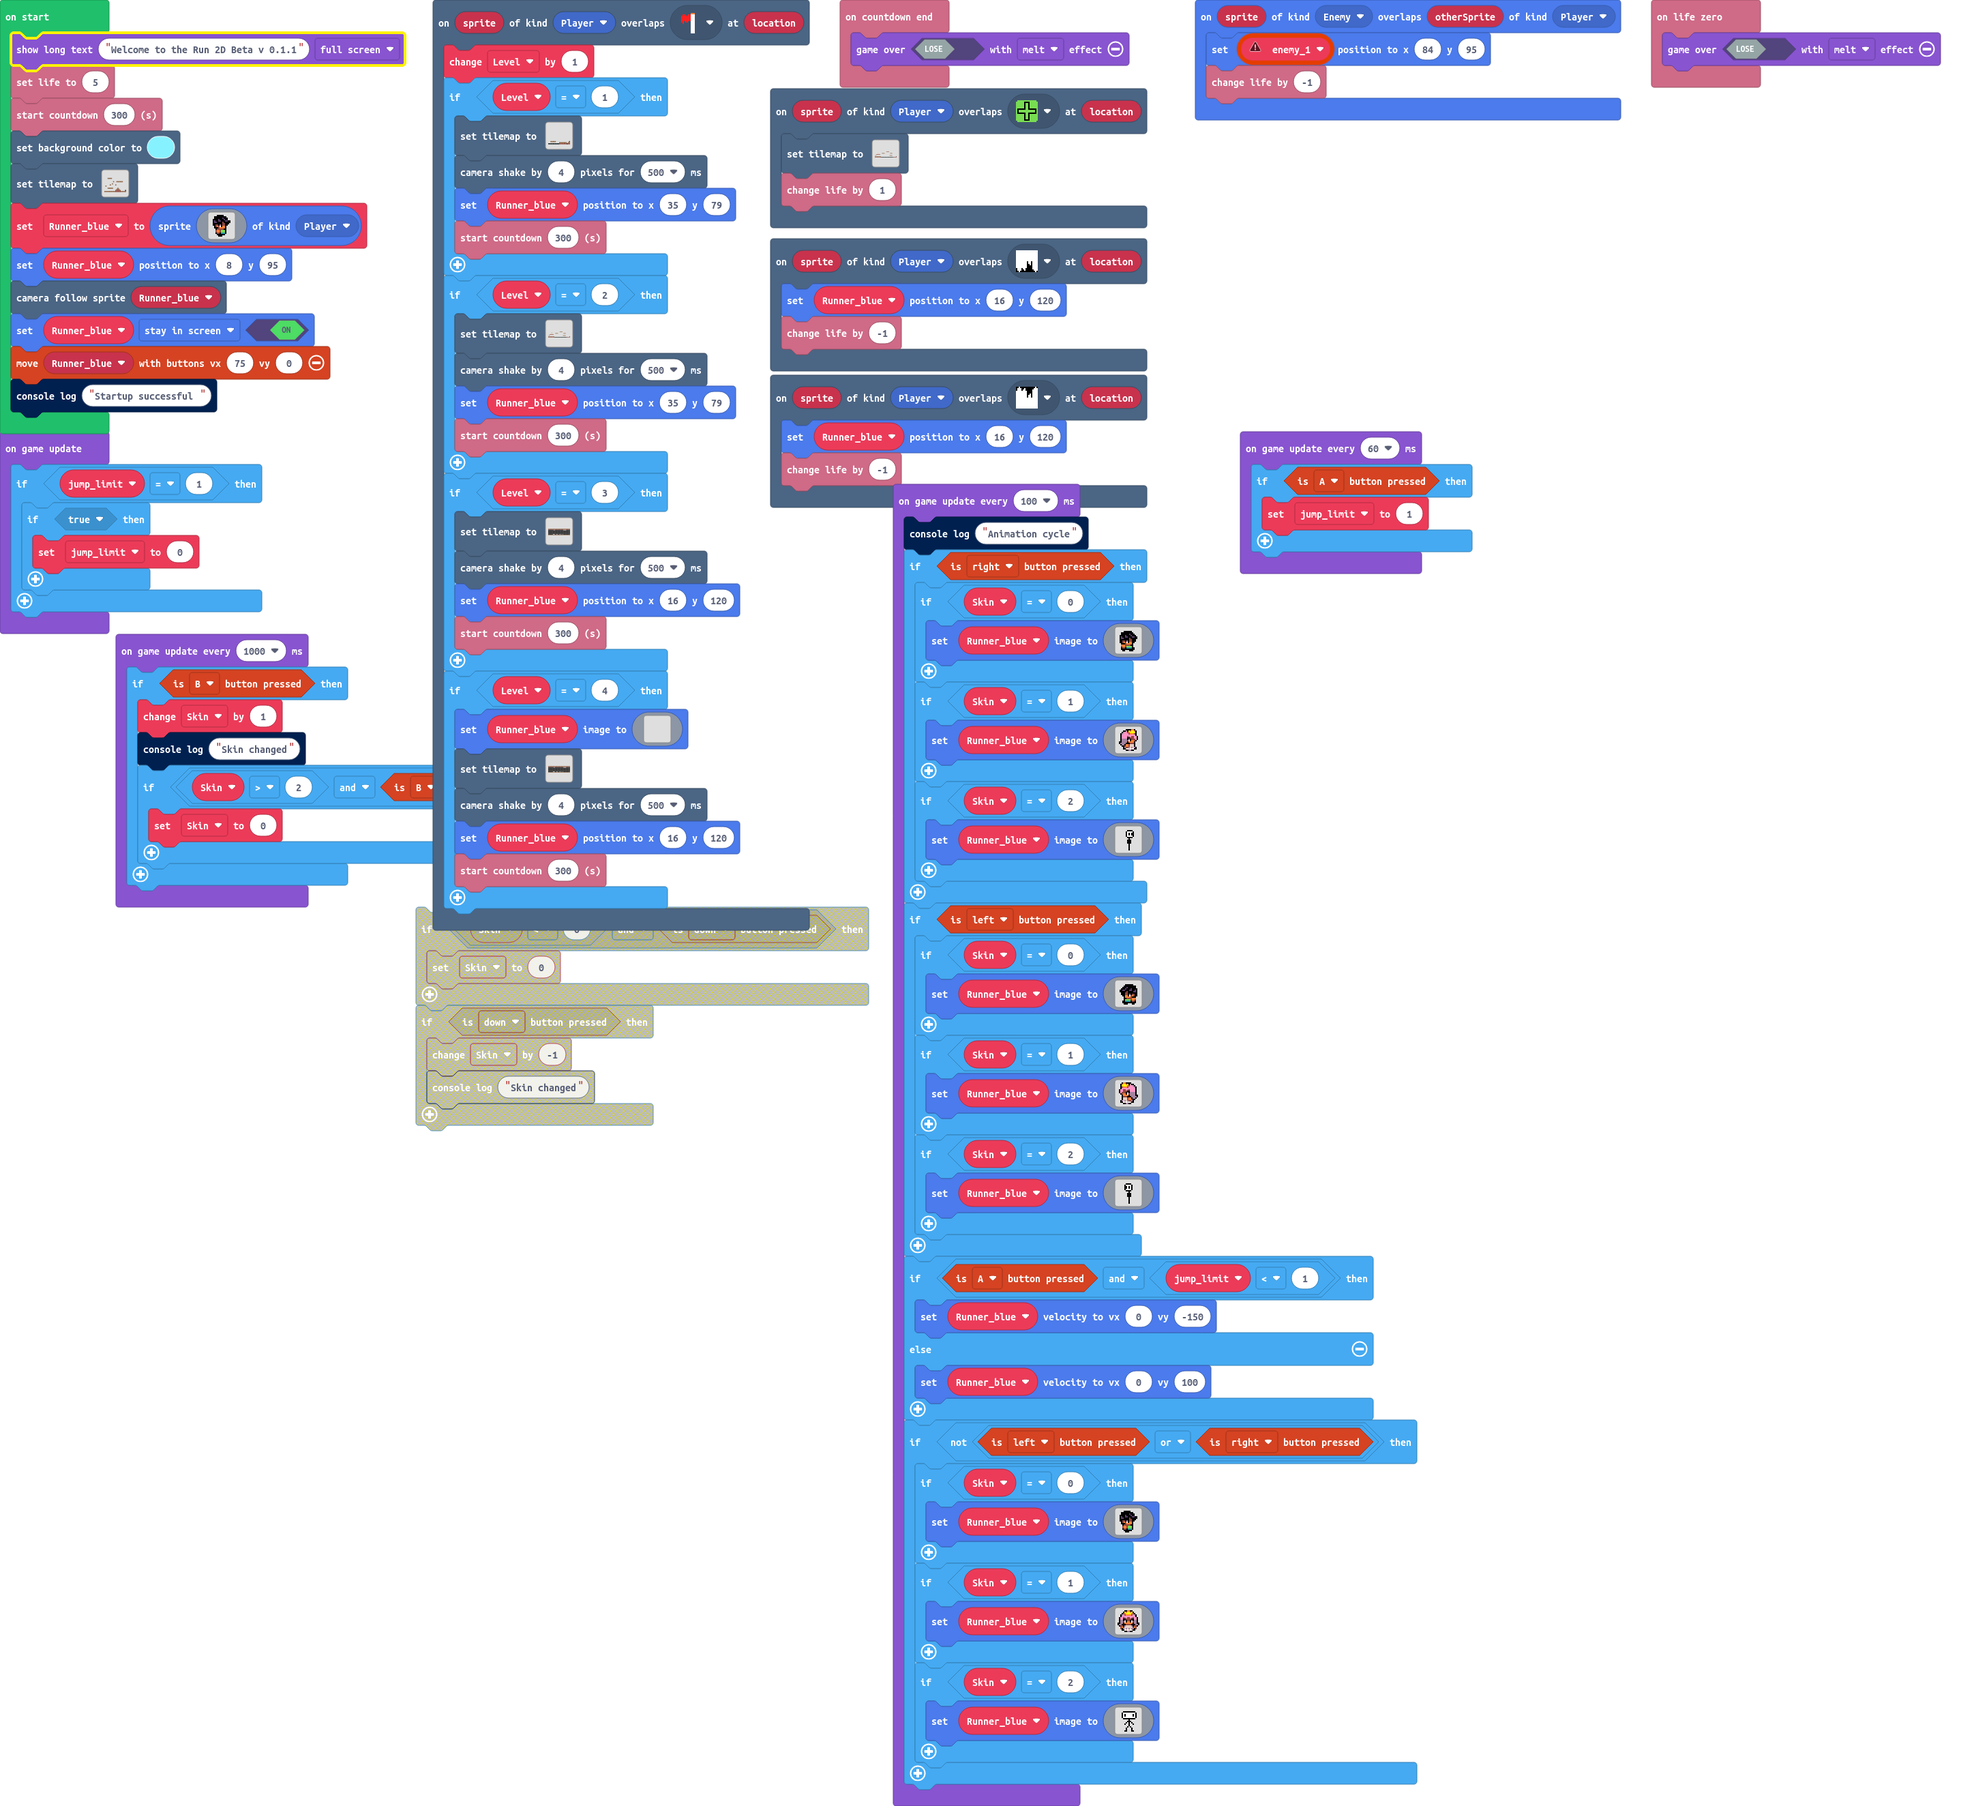
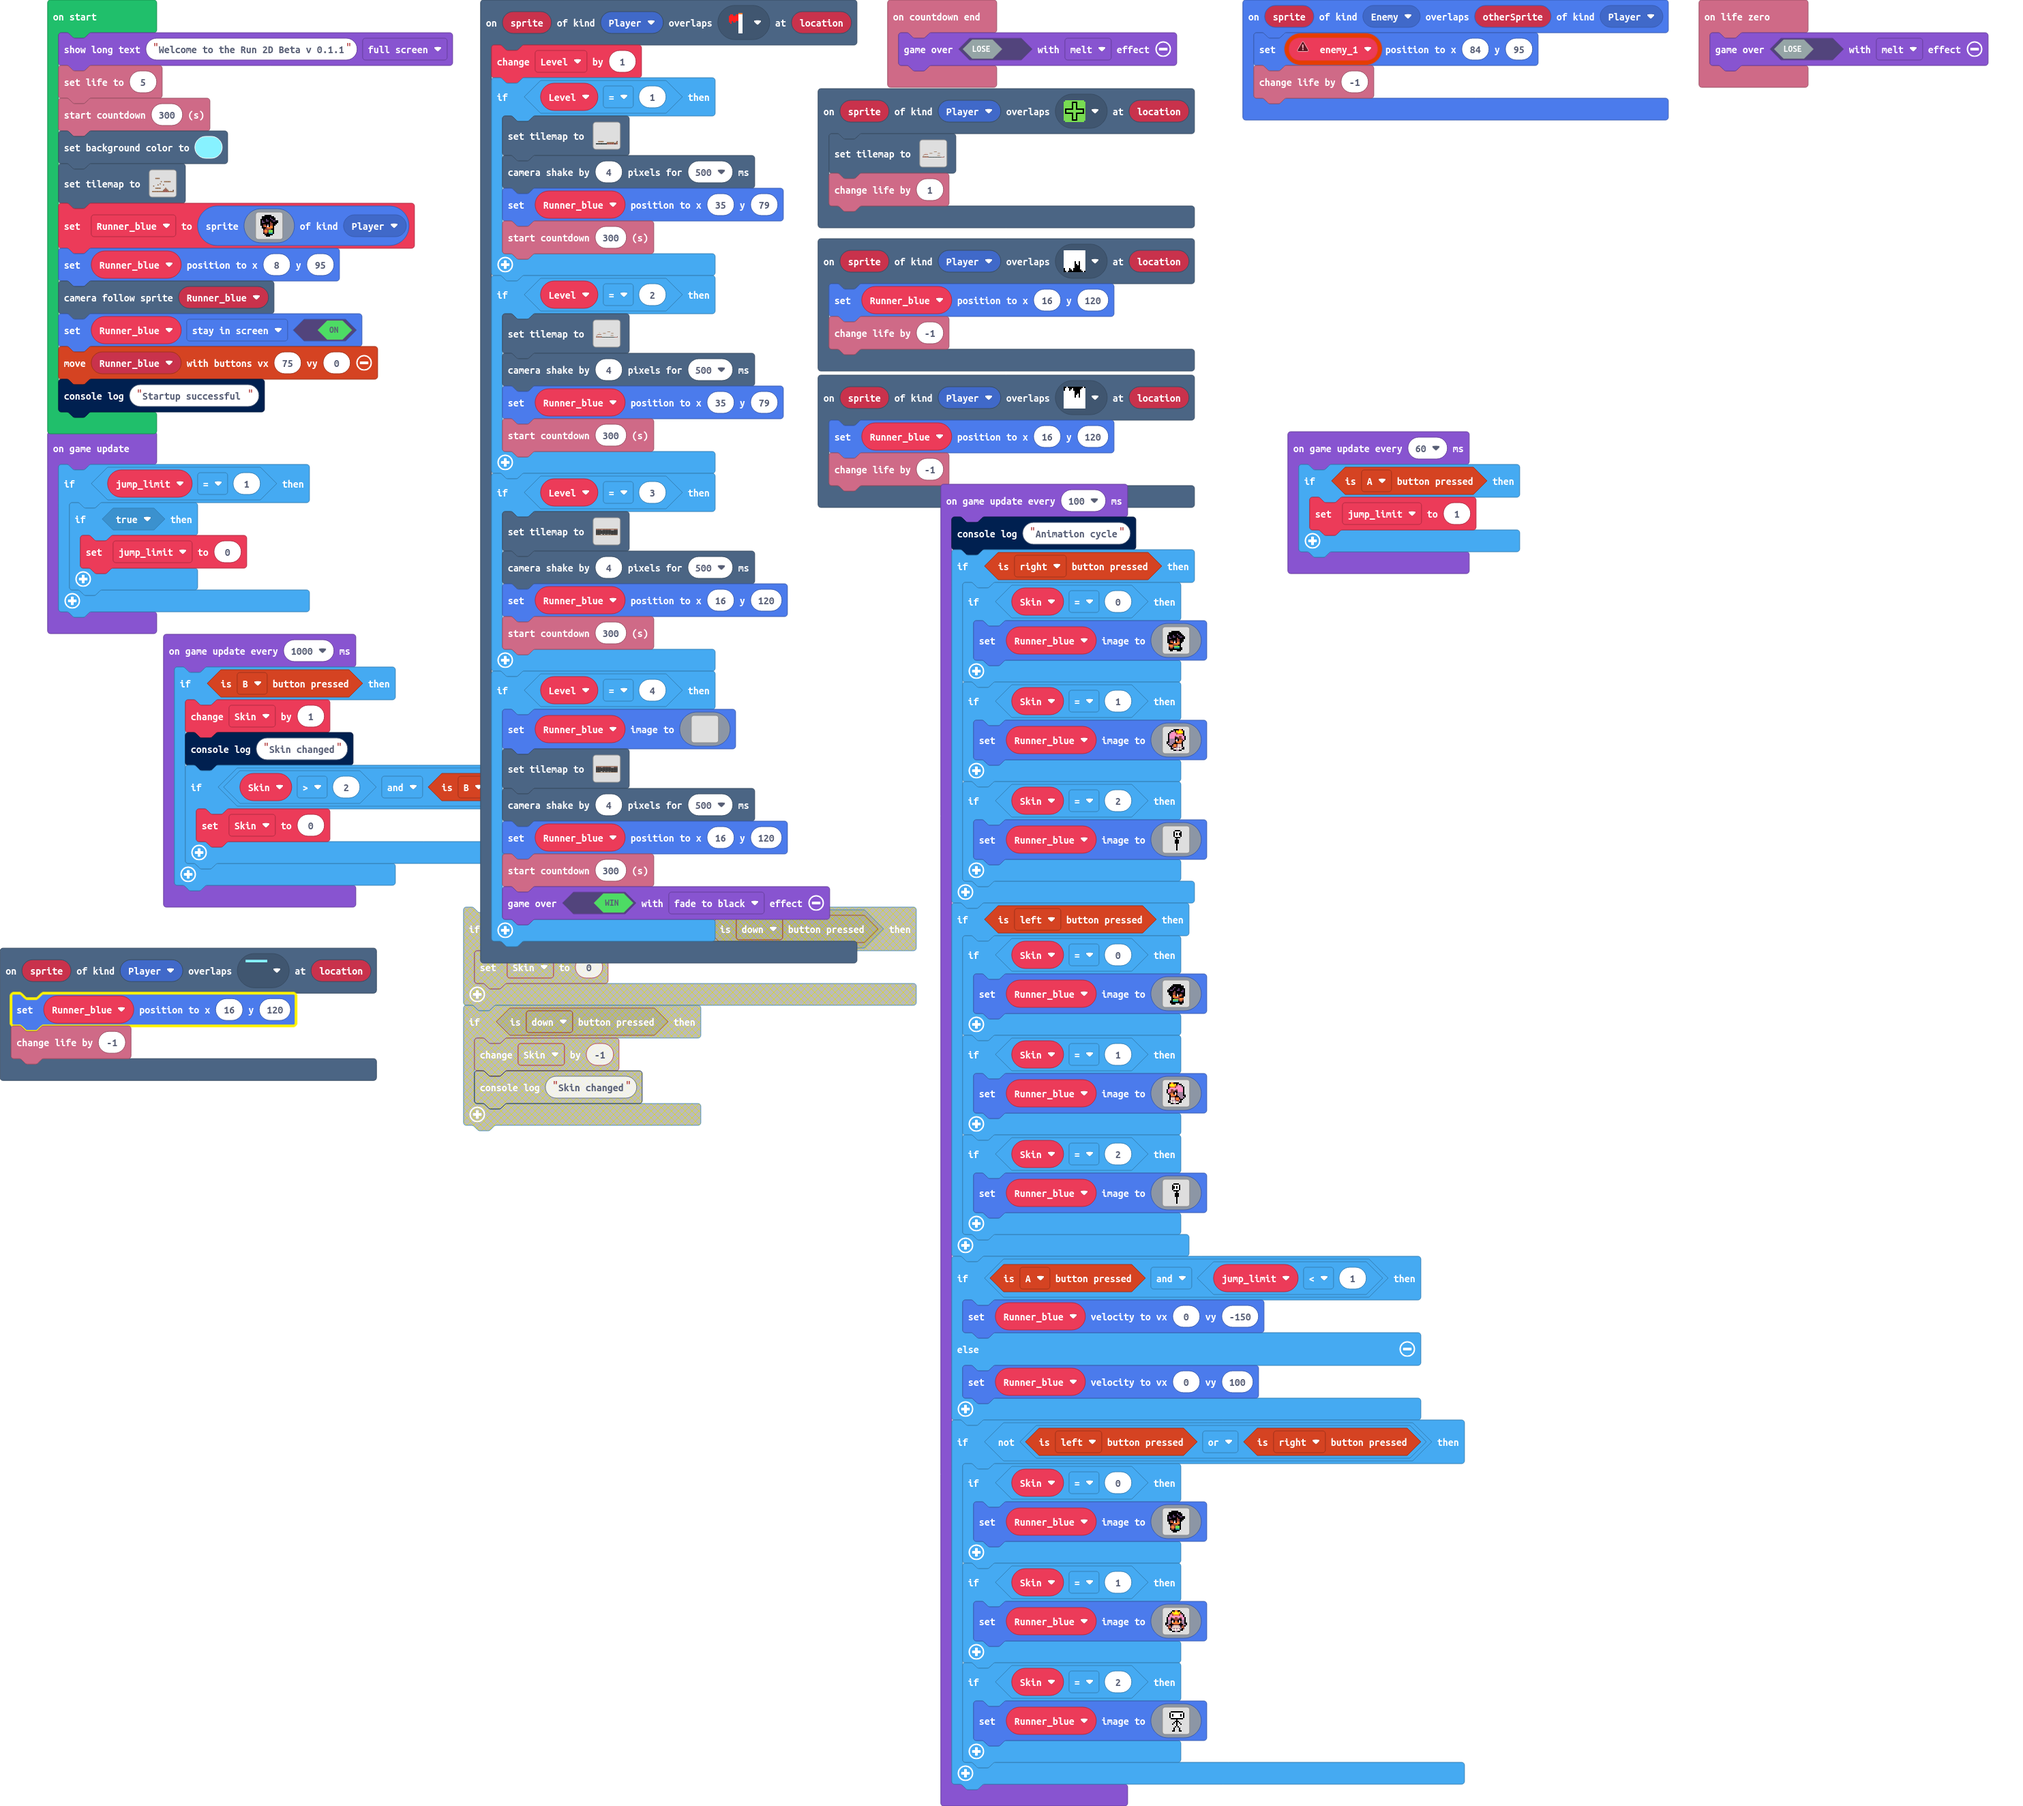
Update main.blocks, main.ts

diff --git a/main.ts b/main.ts
@@ -29,14 +29,14 @@ scene.onOverlapTile(SpriteKind.Player, myTiles.tile16, function (sprite, locatio
     }
     if (Level == 2) {
[1 lines of base64/hex data omitted]
-            . . . . . . . . . . . . . . . . . . . . . . . . . . . . 2 . . . . . . . . . . . 
-            . . . . . . . . . . . . . . . . . . . . . . . . . . . . 2 . . . . . . . . . . . 
-            . . . . . . . . . . . . . . . . . . . . . . . . . . . . 2 . . . . . . . . . . . 
-            . . . . . . . . . . . . . . . . . . . . . . . . . . . . 2 . . . . . . . . . . . 
-            . . . . . . . . . . . . . . . . . . . . . . . . . . . . 2 . . . . . . . . . . . 
-            . . . . . . . . . . . . . . . . . . . . . 2 2 2 2 2 . . 2 . . . . . . . . . . . 
-            . . . . . . . . . . . . . . . . . . . . . . . . . . . . 2 . . . . . . . . . . . 
-            . . . . . 2 . 2 . . . . . . . . . . . . . . . . . . . . 2 . . . . . . . . . . . 
+            . . . . . . . . . . . . . . . . . . . . . . . . . . . . . . . . . . . . . . . . 
+            . . . . . . . . . . . . . . . . . . . . . . . . . . . . . . . . . . . . . . . . 
+            . . . . . . . . . . . . . . . . . . . . . . . . . . . . . . . . . . . . . . . . 
+            . . . . . . . . . . . . . . . . . . . . . . . . . . . . . . . . . . . . . . . . 
+            . . . . . . . . . . . . . . . . . . . . . . . . . . . . . . . . . . . . . . . . 
+            . . . . . . . . . . . . . . . . . . . . . 2 2 2 2 2 . . . . . . . . . . . . . . 
+            . . . . . . . . . . . . . . . . . . . . . . . . . . . . . . . . . . . . . . . . 
+            . . . . . 2 . 2 . . . . . . . . . . . . . . . . . . . . . . . . . . . . . . . . 
             . . . . . . . . . . . . . 2 2 2 2 2 . . . . . . . . . . 2 2 2 2 . . . . . . . . 
             . . . . 2 2 2 2 2 . . . . . . . . . . . . . . . . . . . . . . . . . . . . . . . 
             . . . 2 2 2 2 2 2 2 . . . . . . . . . . . . . . . . . . . . . . . . . . . . . . 
@@ -45,7 +45,7 @@ scene.onOverlapTile(SpriteKind.Player, myTiles.tile16, function (sprite, locatio
             . . . . . . . . . . . . . . . . . . . . . . . . . . . . . . . . . . . . . . . . 
             2 2 2 2 2 2 2 2 2 2 2 . . . . . . . . . . . . . . . . . . . . . . . . . . . . . 
             2 2 2 2 2 2 2 2 2 2 2 . . . . . . . . . . . . . . . . . . . . . . . 2 2 2 2 2 2 
-            `, [myTiles.transparency16,myTiles.tile4,myTiles.tile1,myTiles.tile2,myTiles.tile8,myTiles.tile6,myTiles.tile9,myTiles.tile16,myTiles.tile5,myTiles.tile7,myTiles.tile12,myTiles.tile17,myTiles.tile18], TileScale.Sixteen))
+            `, [myTiles.transparency16,myTiles.tile4,myTiles.tile1,myTiles.tile2,myTiles.tile8,myTiles.tile6,myTiles.tile9,myTiles.tile16,myTiles.tile5,myTiles.tile7,myTiles.tile12,myTiles.tile17,myTiles.tile18,myTiles.tile3,myTiles.tile10,myTiles.tile11,myTiles.tile13,myTiles.tile14,myTiles.tile15,myTiles.tile19,myTiles.tile20,myTiles.tile21,myTiles.tile22,myTiles.tile23,myTiles.tile24], TileScale.Sixteen))
         scene.cameraShake(4, 500)
         Runner_blue.setPosition(35, 79)
         info.startCountdown(300)
@@ -113,10 +113,15 @@ scene.onOverlapTile(SpriteKind.Player, myTiles.tile16, function (sprite, locatio
         scene.cameraShake(4, 500)
         Runner_blue.setPosition(16, 120)
         info.startCountdown(300)
+        game.over(true, color.FadeToBlack)
     }
 })
 info.onCountdownEnd(function () {
     game.over(false, effects.melt)
+})
+scene.onOverlapTile(SpriteKind.Player, myTiles.tile12, function (sprite, location) {
+    Runner_blue.setPosition(16, 120)
+    info.changeLifeBy(-1)
 })
 scene.onOverlapTile(SpriteKind.Player, myTiles.tile17, function (sprite, location) {
[1 lines of base64/hex data omitted]
